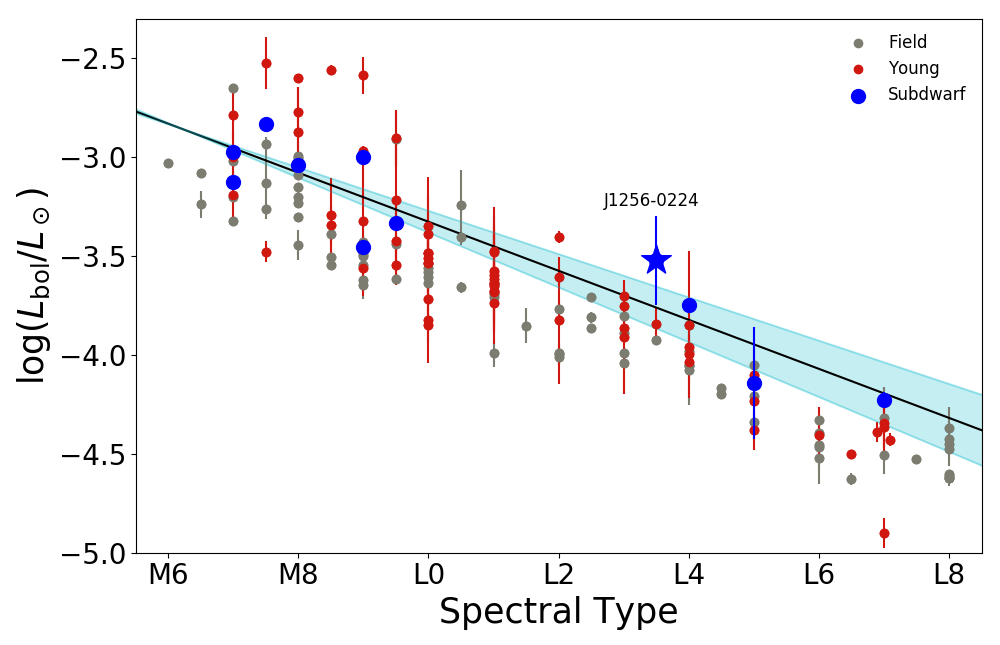
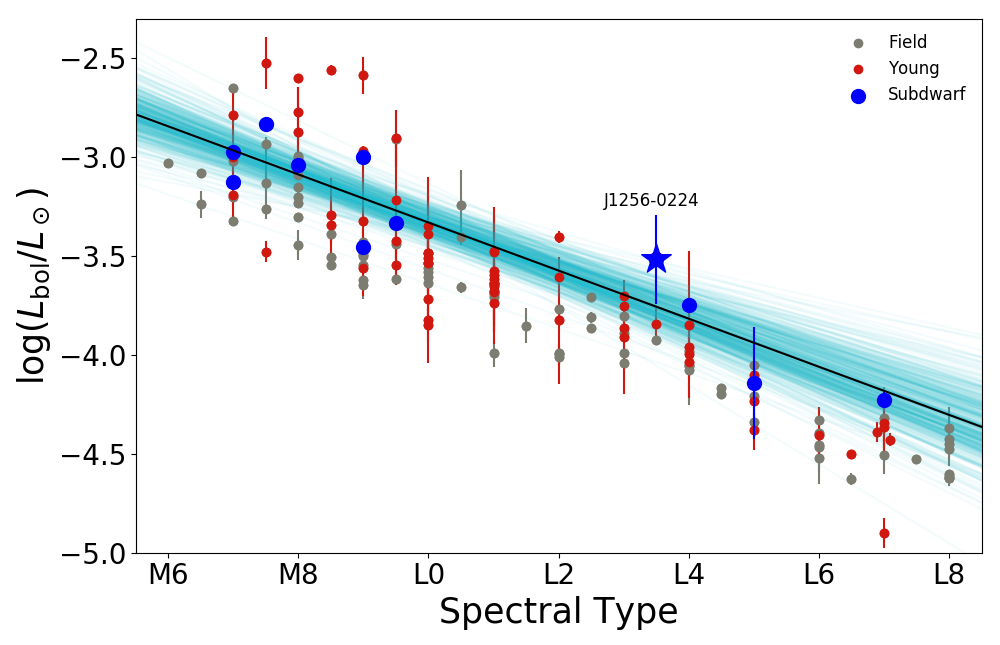
Added MCMC for fits

Changed region(s): [[0.124, 0.093, 0.992, 0.7442]]

diff --git a/SptvLbol.py b/SptvLbol.py
@@ -1,8 +1,15 @@
 import pandas as pd
 import matplotlib.pyplot as plt
 import numpy as np
+import emcee
+import pdb  # Use pdb.set_trace() to put a stop in the code like idl
+import corner
 
-df_sub = pd.read_csv('Data/Subdwarf_Spt_v_Teff.txt', sep=" ", comment='#', header=None,
+# Set as stop for debugging
+stop = pdb.set_trace  # stop() to run
+
+# -------- Read in the data --------
+df_sub = pd.read_csv('Data/Subdwarf_Spt_v_Teff.txt', sep="\s+", comment='#', header=None,
                      names=["name", "SpT", "Teff", 'Teff_err', 'lbol', 'lbol_err', 'mass', 'mass_unc', 'MJ', 'MJ_unc',
                             'MH', 'MH_unc', 'MK', 'MK_unc', 'MW1', 'MW1_unc', 'MW2', 'MW2_unc'])
 df_comb = pd.read_csv('Data/Lbol+Teff-February2017_updated.txt', sep="\s+", comment='#', header=None,
@@ -15,6 +22,87 @@ df_comb.set_value(174, 'grav', 3)
 # ---- Split combined dataframe into field (group 3) and low g groups 1,2) ----------
 df_fld = df_comb[(df_comb['grav'] == 3)]
 df_young = df_comb[(df_comb['grav'] >= 1) & (df_comb['grav'] <= 2)]
+
+# -------------------------------------------------------------------------------------
+# ------------------------- Polynomial fits  -----------------------------------------
+# -------------------------------------------------------------------------------------
+# ------ Fit polynomial for subdwarfs ------
+# drop nan from column need to get polynomial
+df_subpoly = df_sub[pd.notnull(df_sub['lbol'])]
+
+# --- Get uncertainites for upper and lower teff limits ----
+df_subpoly['Lbol_up'] = df_subpoly['lbol'] + df_subpoly['lbol_err']
+df_subpoly['Lbol_d'] = df_subpoly['lbol'] - df_subpoly['lbol_err']
+
+# ------ Fit the values --------
+coeffs = np.polyfit(df_subpoly['SpT'], df_subpoly['lbol'], 1)
+line = np.poly1d(coeffs)
+
+coeffs_up = np.polyfit(df_subpoly['SpT'], df_subpoly['Lbol_up'], 1)
+line_up = np.poly1d(coeffs_up)
+
+coeffs_d = np.polyfit(df_subpoly['SpT'], df_subpoly['Lbol_d'], 1)
+line_d = np.poly1d(coeffs_d)
+
+# ---- print values to screen -------
+print coeffs
+print coeffs_up
+print coeffs_d
+
+# ---- Plot the fit lines -----
+# xp = np.linspace(5, 30, 100)
+# plt.plot(xp, line(xp), '-', color='k')
+# plt.plot(xp, line_up(xp), '-', color='#17becf', alpha=.25)
+# plt.plot(xp, line_d(xp), '-', color='#17becf', alpha=.25)
+# ax1.fill_between(xp, line_up(xp), line_d(xp), alpha=.25, color='#17becf')
+
+# -------------------------------------------------------------------------------------
+# ------------------------------ Use emcee to fit instead -----------------------------
+# -------------------------------------------------------------------------------------
+
+# Define the likelihood function: a line y=mx+b
+
+
+def lnprob(x, lbol, lbol_err, spt):
+    if x[2] < 0:
+        return -np.inf
+    model_line = x[0]*spt + x[1]
+    sigma_dm = (lbol - model_line)/np.sqrt(lbol_err**2+x[2]**2)  # Distance between the data points and the model line
+    return -(1./2.)*sum(np.log(x[2]**2+lbol_err**2))-(1./2.)*sum(sigma_dm**2)-np.log(x[2])  # np.log(x[2]) is an uninformative prior on the intrinsic dispersion
+                                                    # It favors large numbers less
+
+# Define the parameters we need to imput into the mcmc
+ndim = 3  # Number of parameters in my lnprob after the x
+nwalkers = 12
+nsteps = 1000  # this is a standard starting point of 1000
+
+parm_est = [-0.124, -2.089, 0]  # This is my estimate on the slope and y-intercept from my polyfits
+parm_scale = [0.012, 0.21, 0.21]  # the scatter about my estimated start points 10% for teff, 500 Degrees for K
+parm_scale_2d = np.array(parm_scale).reshape(1, ndim).repeat(nwalkers, axis=0)  # Create a 2D array of values with
+parm_est_2d = np.array(parm_est).reshape(1, ndim).repeat(nwalkers, axis=0)      # nwalkers rows
+pos = parm_est_2d + np.random.rand(nwalkers, ndim)*parm_scale_2d
+
+
+# Start the mcmc add .values to the pandas dataframe to convert to numpy array
+# Use the df_subpoly array that has removed the nans before can rum the mcmc
+sampler = emcee.EnsembleSampler(nwalkers, ndim, lnprob, args=(df_subpoly['lbol'].values,
+                                                              df_subpoly['lbol_err'].values,df_subpoly['SpT'].values))
+sampler.run_mcmc(pos, nsteps)
+
+# Check what the burn in is so it can be thrown out
+labels = ["slope", "intercept", 'dispersion']
+for k in range(ndim):
+    plt.figure()
+    for n in range(nwalkers):
+        plt.plot(sampler.chain[n,:,k])
+    plt.ylabel(labels[k], fontsize='16')
+    plt.xlabel("step number", fontsize='12')
+
+# Burn in was around 50 steps, so drop 200 to be safe them from the chain
+samples = sampler.chain[:, 200:, :].reshape((-1, ndim))
+
+# Check the corner plot of the chain
+figcheck = corner.corner(samples, labels=["$m$", "$b$",'dispersion'])
 
 # -------------------------------------------------------------------------------------
 # ------------------------- Make Plot: Spt v Teff ------------------------------------
@@ -48,38 +136,19 @@ ax1.annotate('J1256-0224', xy=(12.7, -3.25), color='k', fontsize=12)
 # ---- Add Legend ----
 plt.legend([fld, young, sub], ["Field", "Young", 'Subdwarf'], frameon=False, fontsize=12)
 
-# -------------------------------------------------------------------------------------
-# ------------------------- Polynomial fits  -----------------------------------------
-# -------------------------------------------------------------------------------------
-# ------ Fit polynomial for subdwarfs ------
-# drop nan from column need to get polynomial
-df_subpoly = df_sub[pd.notnull(df_sub['lbol'])]
+# ---- Plot fit lines  from the mcmc, random 100 -----
+xl = np.array([0, 20])
+for x in samples[np.random.randint(len(samples), size=500)]:
+    plt.plot(xl, x[0]*xl+x[1], color="#17becf", alpha=0.05)
 
-# --- Get uncertainites for upper and lower teff limits ----
-df_subpoly['Lbol_up'] = df_subpoly['lbol'] + df_subpoly['lbol_err']
-df_subpoly['Lbol_d'] = df_subpoly['lbol'] - df_subpoly['lbol_err']
+# To get the best fit line
+best_fit_coeffs = np.median(samples, axis=0)
+best_fit_line = best_fit_coeffs[0]*xl + best_fit_coeffs[1]
+plt.plot(xl, best_fit_line, c='k', zorder=8)
 
-# ------ Fit the values --------
-coeffs = np.polyfit(df_subpoly['SpT'], df_subpoly['lbol'], 1)
-line = np.poly1d(coeffs)
-
-coeffs_up = np.polyfit(df_subpoly['SpT'], df_subpoly['Lbol_up'], 1)
-line_up = np.poly1d(coeffs_up)
-
-coeffs_d = np.polyfit(df_subpoly['SpT'], df_subpoly['Lbol_d'], 1)
-line_d = np.poly1d(coeffs_d)
-
-# ---- print values to screen -------
-print coeffs
-print coeffs_up
-print coeffs_d
-
-# ---- Plot the fit lines -----
-xp = np.linspace(5, 30, 100)
-plt.plot(xp, line(xp), '-', color='k')
-plt.plot(xp, line_up(xp), '-', color='#17becf', alpha=.25)
-plt.plot(xp, line_d(xp), '-', color='#17becf', alpha=.25)
-ax1.fill_between(xp, line_up(xp), line_d(xp), alpha=.25, color='#17becf')
+# ---- Print the best fit coeffs and the std -----
+print(best_fit_coeffs)
+print(np.std(samples, axis=0))
 
 plt.tight_layout()
 plt.savefig('Plots/SptvLbol.png')
